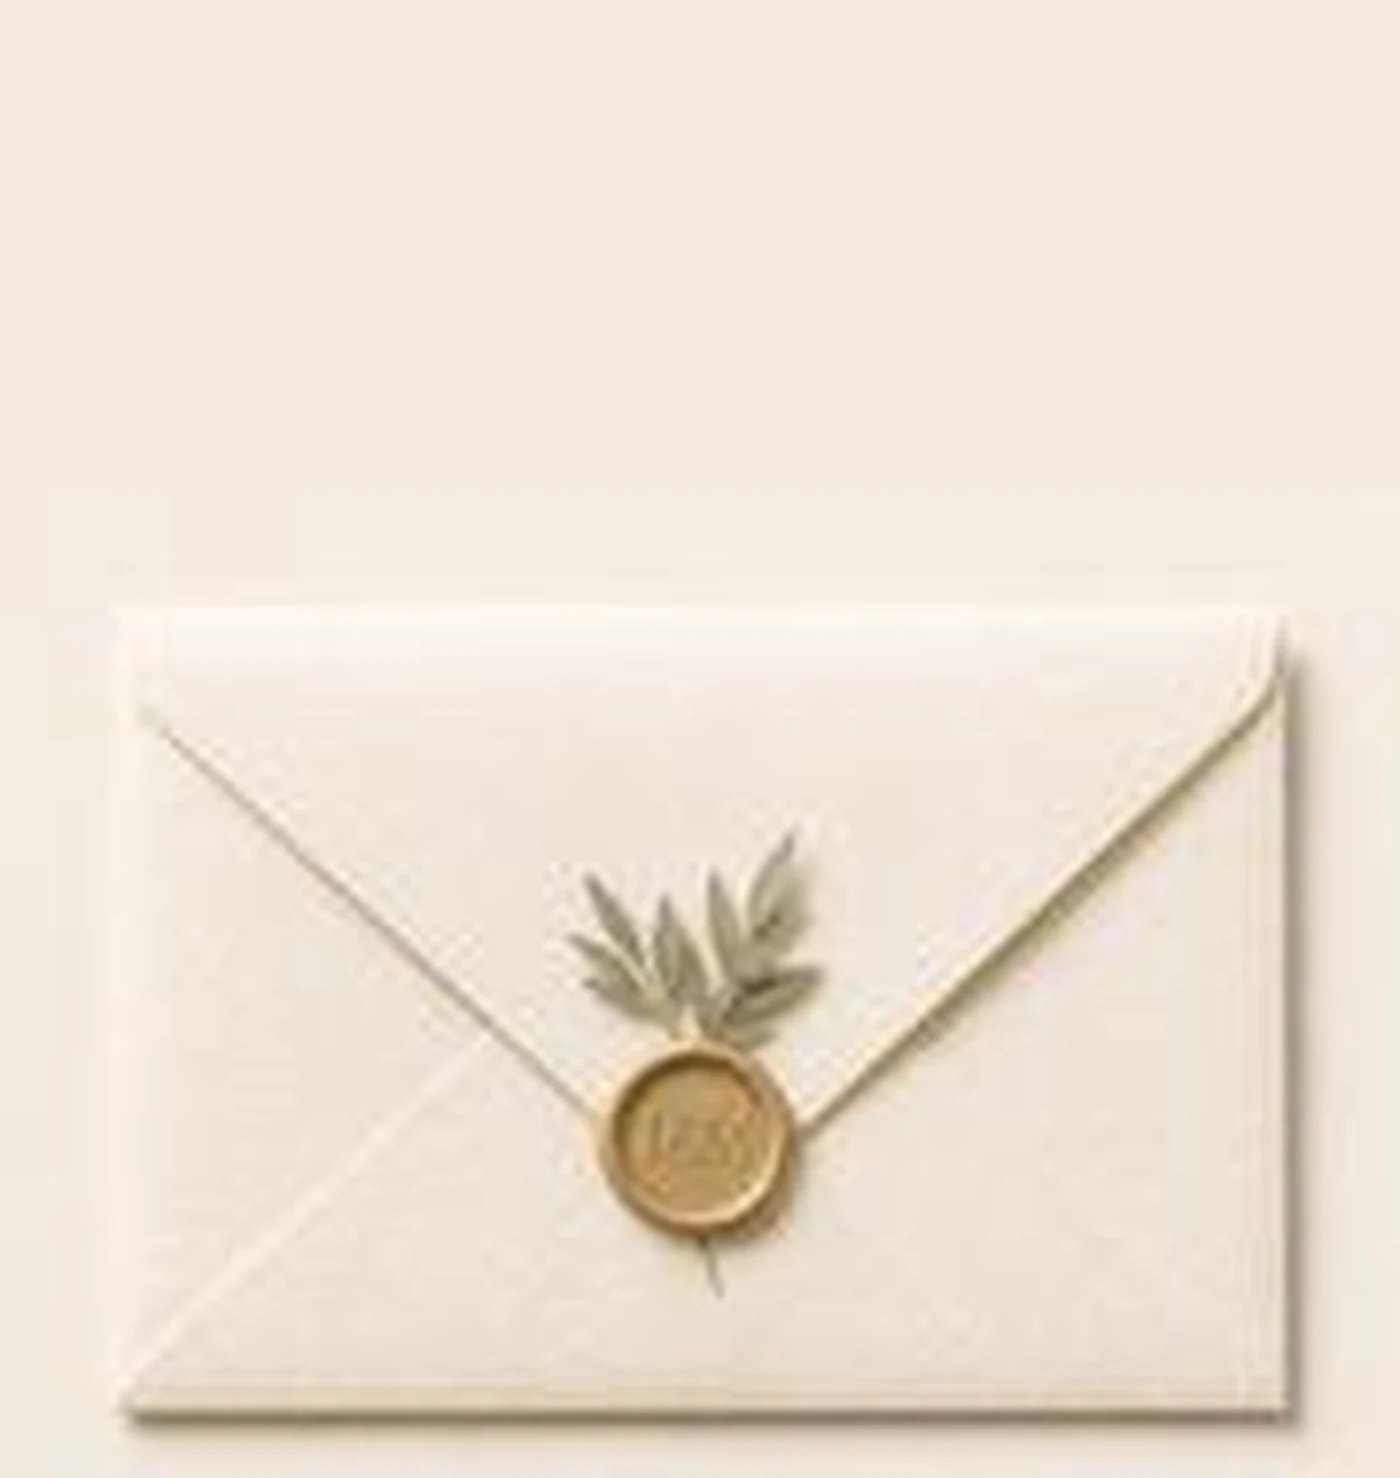
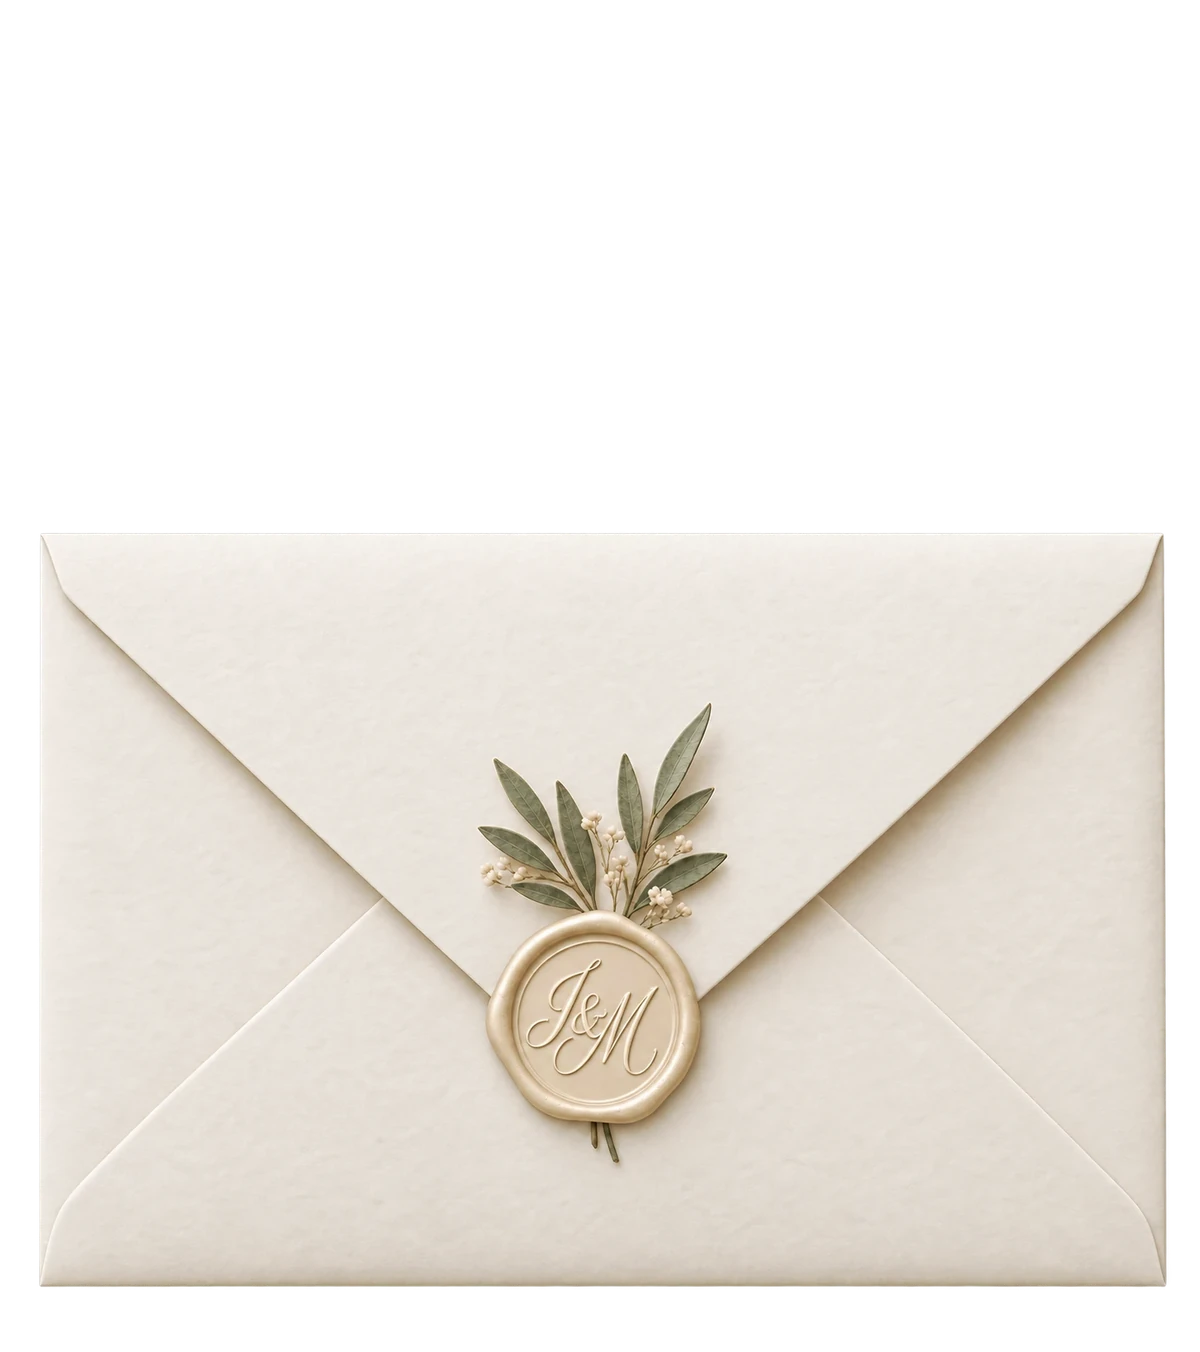
Invitation: HD envelope photos, new frieze, softer background
Use the transparent HD closed/open envelope photos (aligned by
outils/aligner_enveloppe.py, now stretching the open body onto the
closed one), the new floral frieze as separator, and a blurred damask
ground so text reads more easily.

Claude-Session: https://claude.ai/code/session_0191iiphBGaY8KvApv4Te5bC

diff --git a/invitation/index.html b/invitation/index.html
@@ -20,7 +20,6 @@
 /* Ivory paper on an embossed damask ground. Envelope opens onto a scalloped embossed card, then quiet sections divided by the floral frieze. Single light look by choice, like a printed invitation. */
 :root{
   --paper:#f4efe6;
-  --studio:#f5ebe2;
   --ivory:#fbf8f2;
   --ink:#4b4a3f;
   --ink-soft:#7a7565;
@@ -39,7 +38,7 @@ html{scroll-behavior:smooth}
 body{margin:0;background:var(--paper);color:var(--ink);font-family:var(--f-body);font-size:18px;line-height:1.6;-webkit-font-smoothing:antialiased;overflow-x:hidden}
 /* Damask ground, fixed behind everything, softened by an ivory veil */
 body::before{content:"";position:fixed;inset:0;z-index:-1;
-  background:linear-gradient(rgba(244,239,230,.55),rgba(244,239,230,.55)),url("assets/damasse.webp") center/cover var(--paper)}
+  background:linear-gradient(rgba(244,239,230,.6),rgba(244,239,230,.6)),url("assets/damasse-flou.webp") center/cover var(--paper)}
 .page{max-width:560px;margin:0 auto;padding-inline:16px;padding-block:28px 72px;display:flex;flex-direction:column;gap:72px}
 :focus-visible{outline:2px solid var(--gold);outline-offset:4px}
 
@@ -47,33 +46,32 @@ body::before{content:"";position:fixed;inset:0;z-index:-1;
 .reveal{opacity:0;transform:translateY(18px);transition:opacity 1.1s ease,transform 1.1s cubic-bezier(.2,.8,.2,1)}
 .reveal.in{opacity:1;transform:none}
 
-/* ---------- Intro: only the envelope, on a studio-ivory ground matching the photos ---------- */
+/* ---------- Intro: only the envelope, on the same softened damask ground ---------- */
 body.sealed{overflow:hidden}
 body.sealed .page{visibility:hidden}
-.intro{position:fixed;inset:0;z-index:10;display:flex;flex-direction:column;align-items:center;justify-content:center;padding:24px 16px;text-align:center;background:var(--studio);overflow:hidden;transition:opacity 1s ease}
+.intro{position:fixed;inset:0;z-index:10;display:flex;flex-direction:column;align-items:center;justify-content:center;padding:24px 16px;text-align:center;overflow:hidden;transition:opacity 1s ease}
 .intro[hidden]{display:none}
 .intro .words{position:relative;z-index:2;display:flex;flex-direction:column;align-items:center;gap:clamp(8px,1.8vh,14px);transition:opacity .7s ease,transform .7s ease}
 .intro .bism{font-family:var(--f-ar);font-size:clamp(20px,5.6vw,26px);line-height:1.4;color:var(--gold);direction:rtl}
 .intro .pre{font-size:13px;letter-spacing:.32em;text-transform:uppercase;color:var(--ink-soft)}
 .intro .duo{font-family:var(--f-script);font-size:clamp(46px,12.5vw,68px);line-height:1.1;color:var(--sage)}
-/* The envelope box is the aligned photo frame: the closed envelope sits in its lower 55%,
-   the empty top is where the flap lands once open. Body: x 8.3–91.7 %, y 41–95 %; pocket V at y 68.3 %. */
-.envelope{--w:min(100%,440px,58svh);position:relative;width:var(--w);aspect-ratio:1400/1478;margin-top:calc(var(--w) * -.36);z-index:1;border:0;padding:0;background:none;cursor:pointer;-webkit-tap-highlight-color:transparent;transition:transform 1.2s cubic-bezier(.2,.8,.2,1)}
-.envelope img{position:absolute;inset:0;width:100%;height:100%;display:block;pointer-events:none;
-  -webkit-mask-image:linear-gradient(90deg,transparent,#000 6%,#000 94%,transparent),linear-gradient(transparent,#000 10%,#000 94%,transparent);-webkit-mask-composite:source-in;
-  mask-image:linear-gradient(90deg,transparent,#000 6%,#000 94%,transparent),linear-gradient(transparent,#000 10%,#000 94%,transparent);mask-composite:intersect}
-.env-open{z-index:1}
-.envelope:hover .env-closed,.envelope:focus-visible .env-closed{transform:translateY(-1.5%)}
+/* The envelope box is the aligned photo frame (see outils/aligner_enveloppe.py): the closed envelope sits in its
+   lower part, the empty top is where the flap lands once open. Body: x 3.3–97 %, y 39.4–95.2 %; pocket V at 49.7 % 64.4 %. */
+.envelope{--w:min(100%,460px,56svh);position:relative;z-index:1;width:var(--w);aspect-ratio:1448/1631;margin-top:calc(var(--w) * -.4);border:0;padding:0;background:none;cursor:pointer;-webkit-tap-highlight-color:transparent;transition:transform 1.2s cubic-bezier(.2,.8,.2,1)}
+.envelope img{position:absolute;inset:0;width:100%;height:100%;display:block;pointer-events:none;filter:drop-shadow(0 14px 18px rgba(90,75,45,.22)) drop-shadow(0 2px 3px rgba(90,75,45,.18))}
+.env-open{z-index:1;opacity:0;transition:opacity .5s ease}
 .env-closed{z-index:3;transition:opacity .8s ease .15s,transform .5s ease}
-.slot{position:absolute;inset:0;z-index:2;pointer-events:none;clip-path:polygon(-60% -120%,160% -120%,160% 41%,91.7% 41%,50% 68.3%,8.3% 41%,-60% 41%)}
-.letter{position:absolute;left:20%;width:60%;top:72%;aspect-ratio:982/1523;background:url("assets/carte.webp") center/100% 100% no-repeat;filter:drop-shadow(0 6px 10px rgba(90,75,45,.25));transition:transform 1.3s cubic-bezier(.25,.8,.25,1)}
+.envelope:hover .env-closed,.envelope:focus-visible .env-closed{transform:translateY(-1.5%)}
+.slot{position:absolute;inset:0;z-index:2;pointer-events:none;clip-path:polygon(-60% -120%,160% -120%,160% 39.4%,97% 39.4%,49.7% 64.4%,3.3% 39.4%,-60% 39.4%)}
+.letter{position:absolute;left:21%;width:58%;top:70%;aspect-ratio:982/1523;background:url("assets/carte.webp") center/100% 100% no-repeat;filter:drop-shadow(0 6px 10px rgba(90,75,45,.25));transition:transform 1.3s cubic-bezier(.25,.8,.25,1)}
 .intro .hint{position:relative;z-index:2;margin-top:clamp(14px,3vh,28px);font-size:12px;letter-spacing:.2em;text-transform:uppercase;color:var(--gold);transition:opacity .5s ease;animation:breathe 2.8s ease-in-out infinite}
 @keyframes breathe{50%{opacity:.45}}
 /* Opening sequence: words step back, photo crossfades to the open envelope, the card rises out of the pocket, then the page takes over */
 .intro.opening .words{opacity:0;transform:translateY(-12px)}
 .intro.opening .hint{opacity:0;animation:none}
 .intro.opening .env-closed{opacity:0}
-.intro.rising .letter{transform:translateY(-82%)}
+.intro.opening .env-open{opacity:1}
+.intro.rising .letter{transform:translateY(-78%)}
 .intro.leaving{opacity:0}
 .intro.leaving .envelope{transform:scale(1.12) translateY(-4%)}
 .page{transition:opacity 1s ease .2s}
@@ -122,7 +120,7 @@ h2{margin:0;font-family:var(--f-script);font-weight:400;font-size:clamp(40px,10v
 .cd b{font-weight:500;font-size:clamp(40px,11vw,56px);line-height:1;color:var(--ink);font-variant-numeric:lining-nums tabular-nums}
 .cd span{margin-top:8px;font-size:12px;letter-spacing:.26em;text-transform:uppercase;color:var(--ink-soft)}
 
-.rsvp{position:relative;padding:52px 26px;background:url("assets/damasse.webp") center/cover var(--ivory);border-radius:3px;isolation:isolate;box-shadow:0 24px 40px -28px rgba(90,75,45,.45)}
+.rsvp{position:relative;padding:52px 26px;background:url("assets/damasse-flou.webp") center/cover var(--ivory);border-radius:3px;isolation:isolate;box-shadow:0 24px 40px -28px rgba(90,75,45,.45)}
 .rsvp::before{content:"";position:absolute;inset:0;background:rgba(251,248,242,.72);z-index:-1;border-radius:inherit}
 .rsvp::after{content:"";position:absolute;inset:10px;border:1px solid var(--gold-soft);pointer-events:none}
 .rsvp p{margin:0;max-width:36ch;color:var(--ink-soft)}

diff --git a/invitation/outils/aligner_enveloppe.py b/invitation/outils/aligner_enveloppe.py
@@ -1,42 +1,46 @@
-# Recale les photos de l'enveloppe fermée et ouverte sur un même cadre,
-# pour que l'animation passe de l'une à l'autre sans saut.
+# Recale les photos (PNG/WebP à fond transparent) de l'enveloppe fermée et
+# ouverte sur un même cadre, pour que l'animation passe de l'une à l'autre
+# sans saut : le corps de l'enveloppe ouverte est étiré pour couvrir
+# exactement celui de l'enveloppe fermée.
 #
-#   python3 outils/aligner_enveloppe.py fermee.jpg ouverte.jpg
+#   python3 outils/aligner_enveloppe.py fermee.webp ouverte.webp
 #
-# Produit assets/enveloppe-fermee.webp et assets/enveloppe-ouverte.webp.
-# Les repères ci-dessous (fractions de largeur/hauteur de chaque photo)
-# correspondent aux deux images générées dans Canva ; à re-mesurer si on
-# change de photos.
+# Produit assets/enveloppe-fermee.webp et assets/enveloppe-ouverte.webp, et
+# affiche les repères à reporter dans index.html (.envelope, .slot, .letter).
+# Les repères ci-dessous sont en pixels dans chaque photo d'origine ; à
+# re-mesurer si on change de photos.
 import pathlib, sys
 from PIL import Image
 
-CLOSED = dict(left=.125, right=.875, bottom=.893)   # corps de l'enveloppe fermée
-OPEN = dict(left=.244, right=.7625, bottom=.94)     # corps de l'enveloppe ouverte
-CANVAS = dict(left=.05, right=.95, top=-.47, bottom=.96)  # cadre final, en fractions de la photo fermée
-BG = (245, 236, 227)  # fond des photos
-OUT_W = 1400
+CLOSED = dict(left=48, right=1405, top=97, bottom=1007)   # corps de l'enveloppe fermée
+OPEN = dict(left=200, right=1250, top=440, bottom=1060)   # corps (sous la charnière) de l'enveloppe ouverte
+OPEN_FLAP_TOP = 16                                         # pointe du rabat ouvert
+OPEN_POCKET_V = (720, 718)                                 # pointe du V de la poche avant
+OUT_W = 1200
 
-closed = Image.open(sys.argv[1]).convert("RGB")
-opened = Image.open(sys.argv[2]).convert("RGB")
-W, H = closed.size
+closed = Image.open(sys.argv[1]).convert("RGBA")
+opened = Image.open(sys.argv[2]).convert("RGBA")
 
-def place(img, scale, dx, dy):
-    # Pose img, mise à l'échelle, sur un cadre aux dimensions de CANVAS (en pixels de la photo fermée).
-    cw = round((CANVAS["right"] - CANVAS["left"]) * W)
-    ch = round((CANVAS["bottom"] - CANVAS["top"]) * H)
-    canvas = Image.new("RGB", (cw, ch), BG)
-    im = img.resize((round(img.width * scale), round(img.height * scale)), Image.LANCZOS)
-    canvas.paste(im, (round(dx - CANVAS["left"] * W), round(dy - CANVAS["top"] * H)))
-    return canvas
+sx = (CLOSED["right"] - CLOSED["left"]) / (OPEN["right"] - OPEN["left"])
+sy = (CLOSED["bottom"] - CLOSED["top"]) / (OPEN["bottom"] - OPEN["top"])
+to_closed = lambda x, y: (CLOSED["left"] + (x - OPEN["left"]) * sx, CLOSED["bottom"] - (OPEN["bottom"] - y) * sy)
 
-a = place(closed, 1, 0, 0)
-s = (CLOSED["right"] - CLOSED["left"]) * W / ((OPEN["right"] - OPEN["left"]) * opened.width)
-dx = CLOSED["left"] * W - OPEN["left"] * opened.width * s
-dy = CLOSED["bottom"] * H - OPEN["bottom"] * opened.height * s
-b = place(opened, s, dx, dy)
+top = min(0, to_closed(0, OPEN_FLAP_TOP)[1]) - 20
+W, H = closed.width, round(closed.height - top)
+
+a = Image.new("RGBA", (W, H)); a.alpha_composite(closed, (0, round(-top)))
+b = Image.new("RGBA", (W, H))
+ox, oy = to_closed(0, 0)
+b.alpha_composite(opened.resize((round(opened.width * sx), round(opened.height * sy)), Image.LANCZOS), (round(ox), round(oy - top)))
+b = b.crop((0, 0, W, H))
 
 out = pathlib.Path(__file__).resolve().parent.parent / "assets"
-size = (OUT_W, round(OUT_W * a.height / a.width))
-a.resize(size, Image.LANCZOS).save(out / "enveloppe-fermee.webp", quality=88, method=6)
-b.resize(size, Image.LANCZOS).save(out / "enveloppe-ouverte.webp", quality=88, method=6)
-print("ok", size)
+size = (OUT_W, round(OUT_W * H / W))
+a.resize(size, Image.LANCZOS).save(out / "enveloppe-fermee.webp", quality=90, method=6)
+b.resize(size, Image.LANCZOS).save(out / "enveloppe-ouverte.webp", quality=90, method=6)
+
+pct = lambda v, n: f"{100 * v / n:.1f}%"
+vx, vy = to_closed(*OPEN_POCKET_V)
+print("taille", size, "aspect-ratio", f"{W}/{H}")
+print("corps : x", pct(CLOSED["left"], W), "→", pct(CLOSED["right"], W), " y", pct(CLOSED["top"] - top, H), "→", pct(CLOSED["bottom"] - top, H))
+print("V de la poche :", pct(vx, W), pct(vy - top, H))
